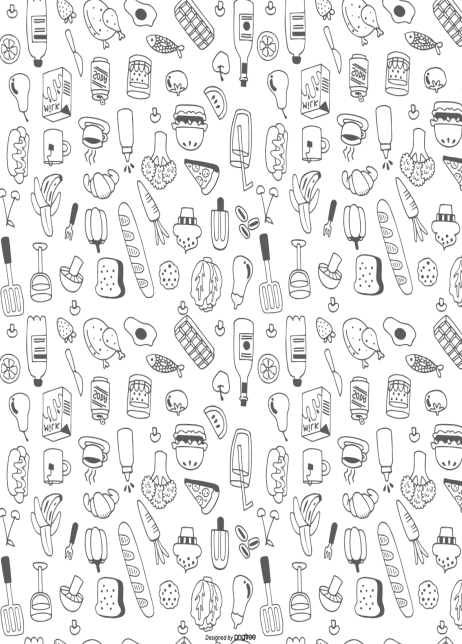
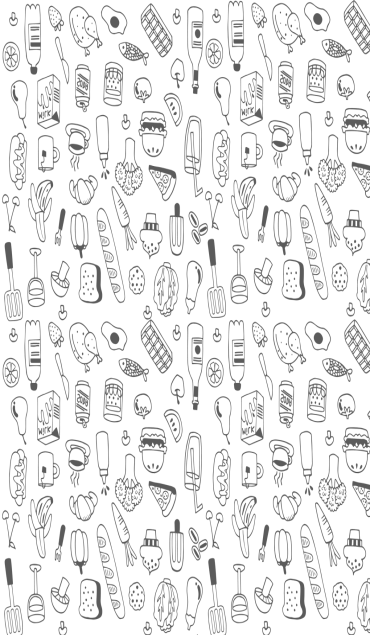
colour changes for test purpose

diff --git a/index.html b/index.html
@@ -496,18 +496,24 @@
       </div>
       <br>
       <br>
-  <div class="container">
-    <div class="row">
-      <div class="col-lg-6 text-center">
-        <i class="fas fa-truck delivery-icon"></i>
-        <p style="color: black;">Home Delivery Available</p>
+      <div class="container">
+        <div class="row">
+          <div class="col-lg-6 text-center">
+            <i class="fas fa-truck delivery-icon"></i>
+            <p style="color: black;"><strong>Home Delivery Available</strong></p>
+            <br>
+          </div>
+          <div class="col-lg-6 text-center">
+            <i class="fas fa-phone contact-icon"></i>
+            <p style="color: black;">
+              <strong>
+                Pulikalodi: 7025222260<br> Wandoor: 9946447755<br> Anchachavidi: 8943608000
+              </strong>
+            </p>
+          </div>
+        </div>
       </div>
-      <div class="col-lg-6 text-center">
-        <i class="fas fa-phone contact-icon"></i>
-        <p style="color: black;">Contact us at: <strong>Your Contact Number</strong></p>
-      </div>
-    </div>
-  </div>
+      
   <br>
       <br>
       <br>

diff --git a/assets/css/style.css b/assets/css/style.css
@@ -436,7 +436,7 @@ section {
 }
 
 .section-bg {
-  background-image: url(../images/chilliesbg.png);
+  background-image: url(../images/cbg.png);
   background-size: contain;
   background-repeat: repeat;
   background-position: center; 
